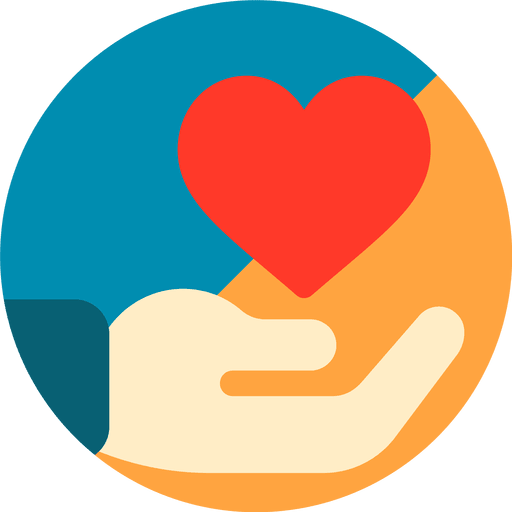
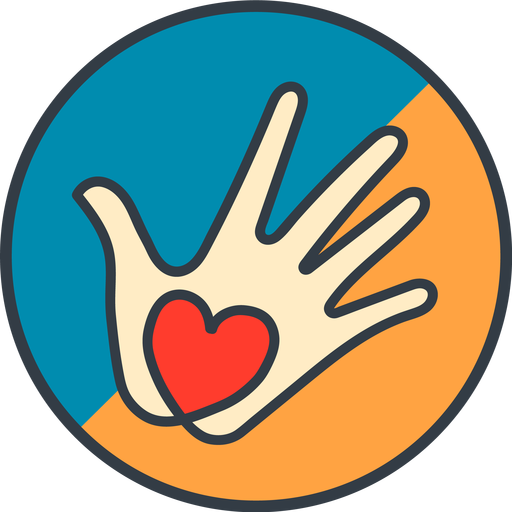
Changes

diff --git a/index.html b/index.html
@@ -22,7 +22,7 @@
     <div class="container">
         <div class="navbar__inner">
             <a href="index.html" class="navbar__logo" style="transform: translateY(20px); display: block;">
-                <img src="/images/icon-small-shadow.png" width="70" alt="">
+                <img src="/images/icon-small.png" width="70" alt="">
             </a>
             <nav class="navbar__menu">
                 <ul>
@@ -325,7 +325,10 @@
 <div class="footer footer--dark">
     <div class="container">
         <div class="footer__inner">
-            <a href="index.html" class="footer__textLogo"><strong>Kind Space NT</strong></a>
+            <a href="index.html" class="footer__textLogo">
+                <img src="/images/icon-small.png" width="70" alt=""><br>
+                <strong>Kind Space NT</strong>
+            </a>
             <div class="footer__data">
                 <div class="footer__data__item">
 
